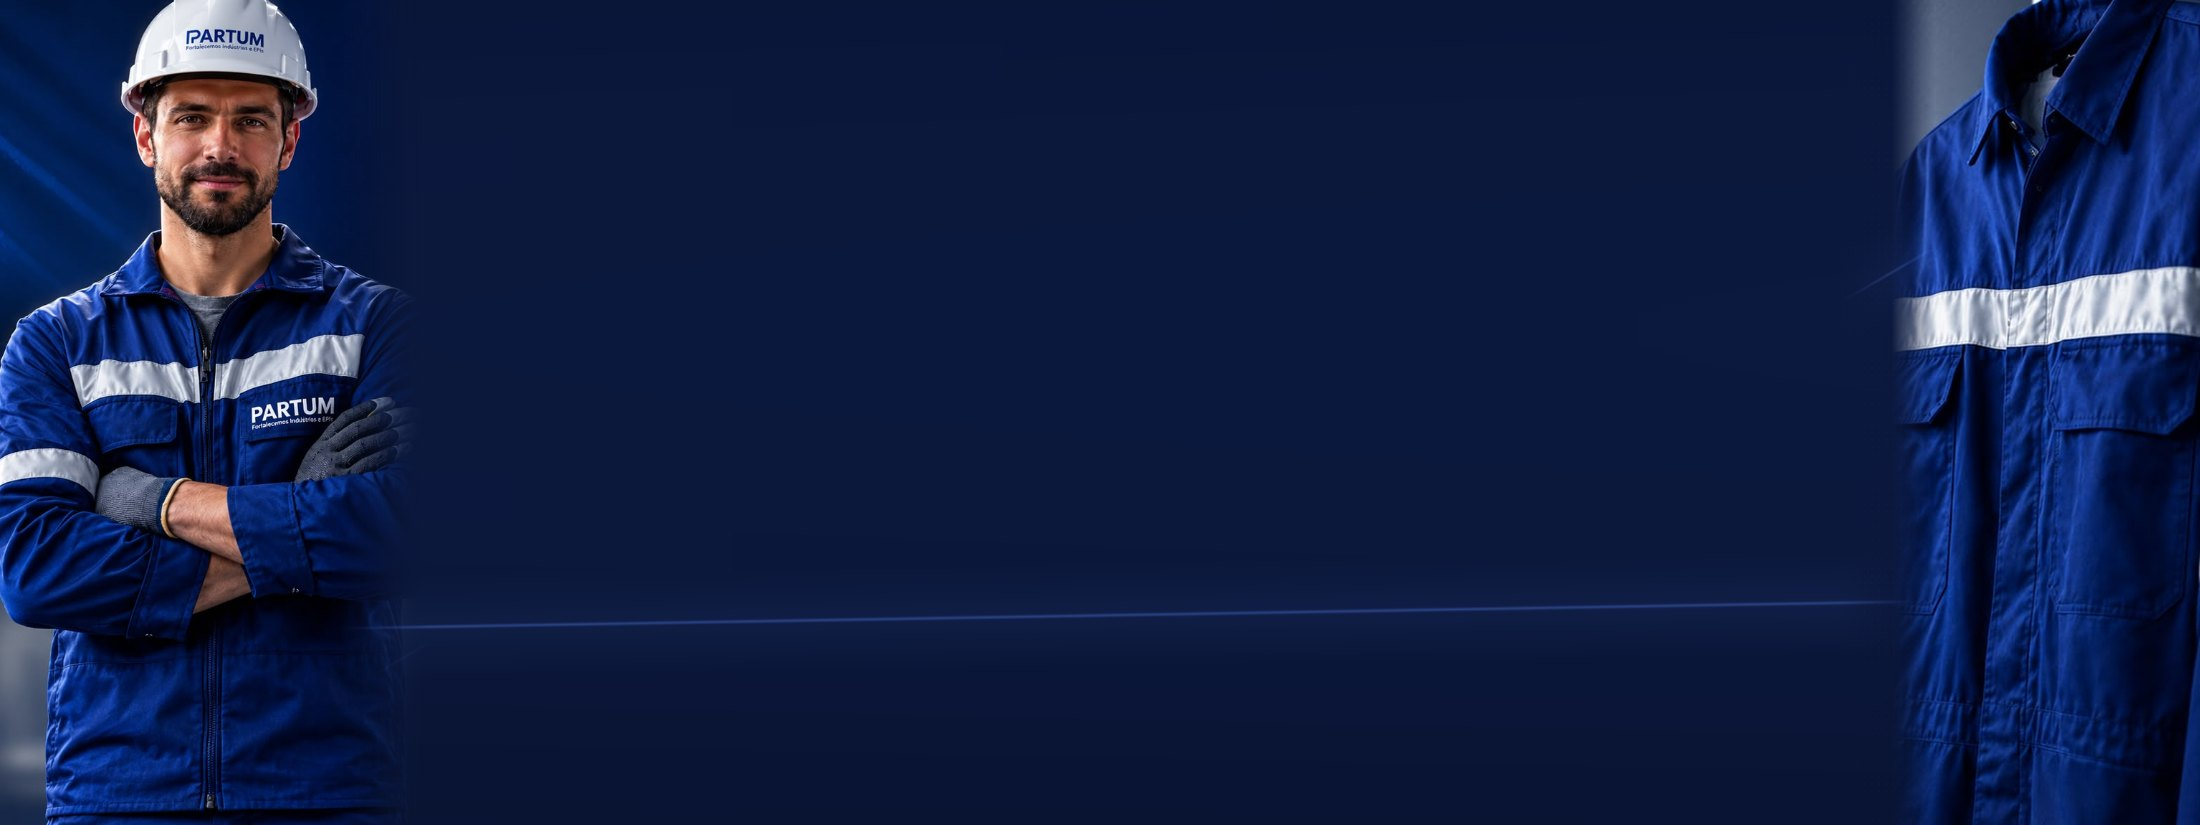
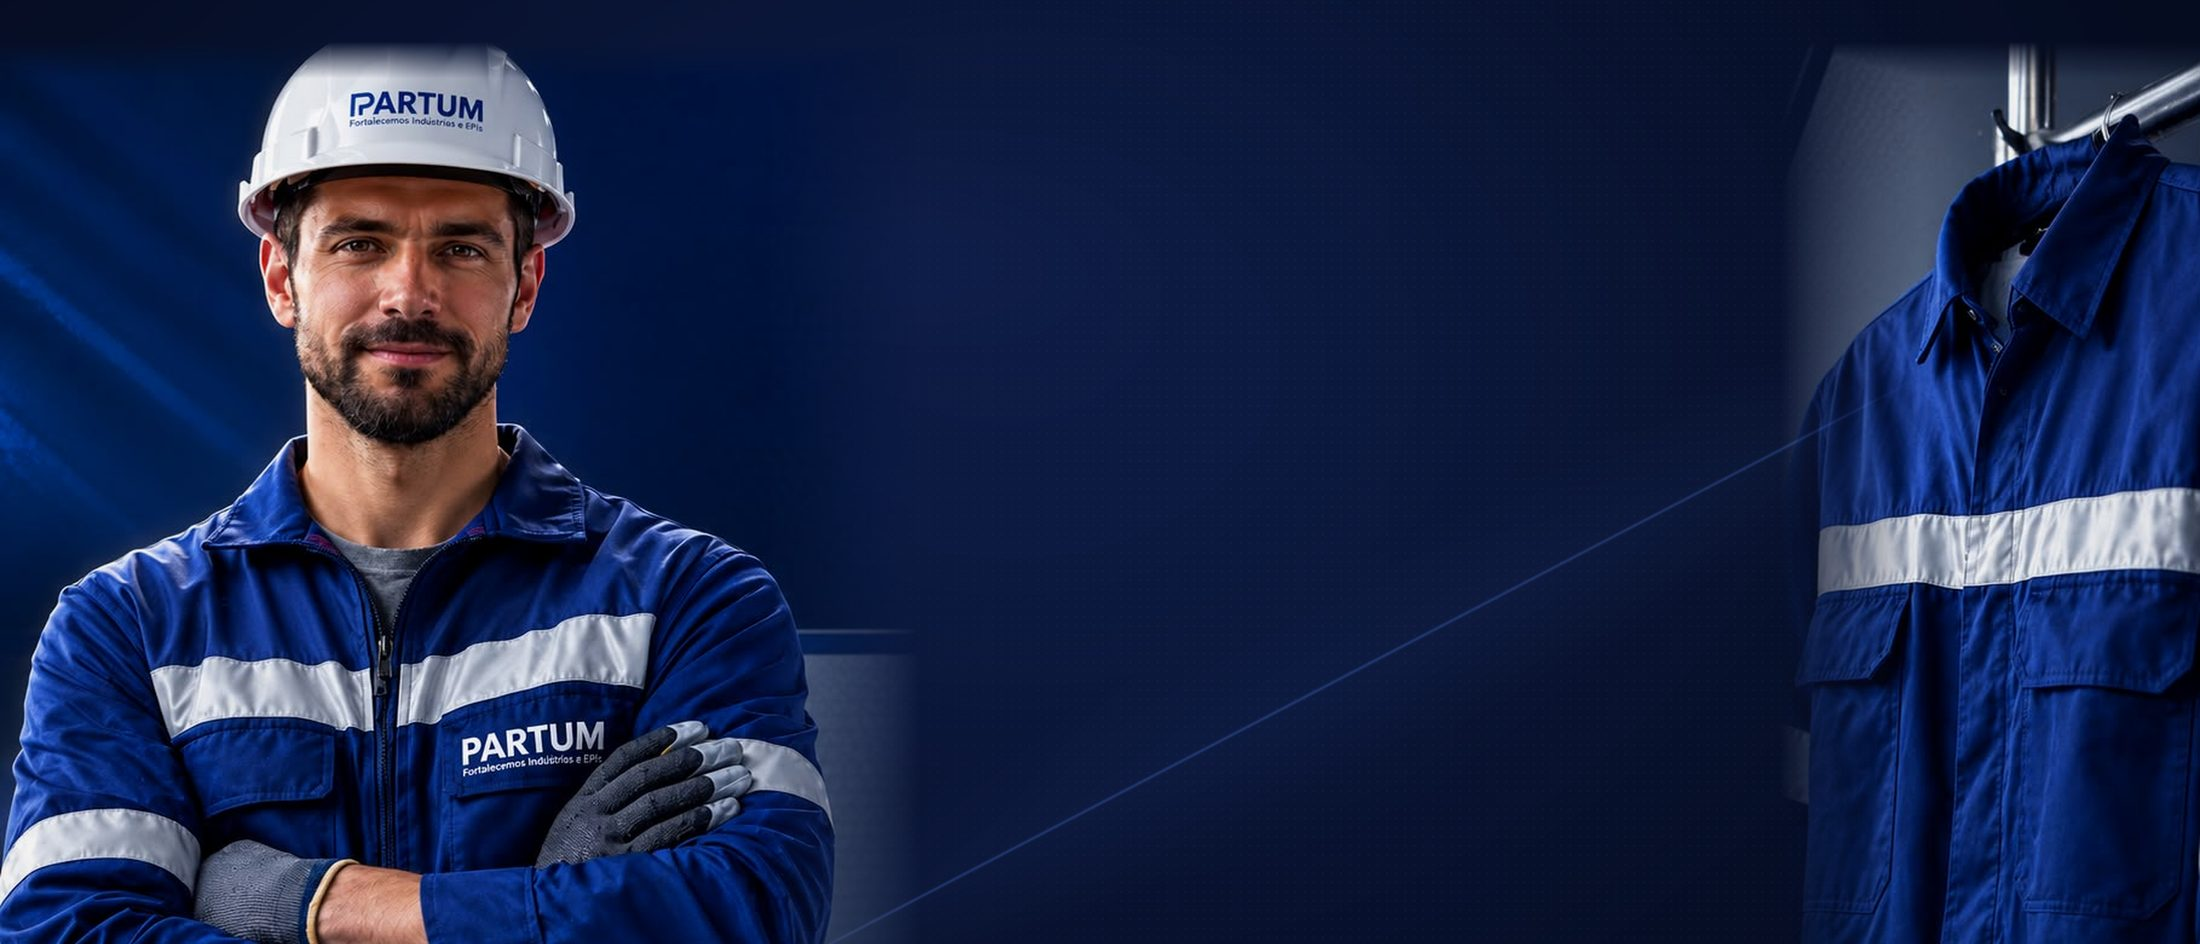
Hero: homem maior e fundo com profundidade

diff --git a/components/Hero.tsx b/components/Hero.tsx
@@ -56,7 +56,7 @@ export default function Hero() {
   return (
     <section id="inicio" className="relative bg-primary-dark">
       {/* Faixa da imagem: mesma proporcao da arte (2400x900), entao ela nunca e cortada */}
-      <div className="relative w-full min-h-[600px] lg:min-h-[660px] lg:aspect-[8/3] overflow-hidden">
+      <div className="relative w-full min-h-[580px] lg:min-h-[600px] lg:aspect-[240/103] overflow-hidden">
         <Image
           src="/hero.jpg"
           alt="Profissional com fardamento e EPI da Partum Brasil"
@@ -70,7 +70,7 @@ export default function Hero() {
 
         <div className="absolute inset-0 flex items-center">
           <div className="w-full max-w-7xl mx-auto px-4 sm:px-6 lg:px-8 pb-20 lg:pb-16">
-            <div className="max-w-2xl lg:ml-[28%]">
+            <div className="max-w-2xl lg:ml-[40%]">
               <div className="flex items-center gap-3 mb-5">
                 <span className="block w-9 h-0.5 bg-accent-light rounded-full" />
                 <span className="text-white/70 text-xs sm:text-sm font-semibold uppercase tracking-[0.18em]">
@@ -113,7 +113,7 @@ export default function Hero() {
       </div>
 
       {/* Barra de indicadores flutuante */}
-      <div className="relative px-4 sm:px-6 lg:px-8 -mt-12 lg:-mt-14">
+      <div className="relative px-4 sm:px-6 lg:px-8 -mt-12 lg:-mt-16">
         <div className="max-w-7xl mx-auto bg-primary-dark/80 backdrop-blur-md border border-white/10 border-b-0 rounded-t-3xl">
           <div className="grid grid-cols-2 lg:grid-cols-4 divide-x divide-white/10">
             {stats.map((s) => (
